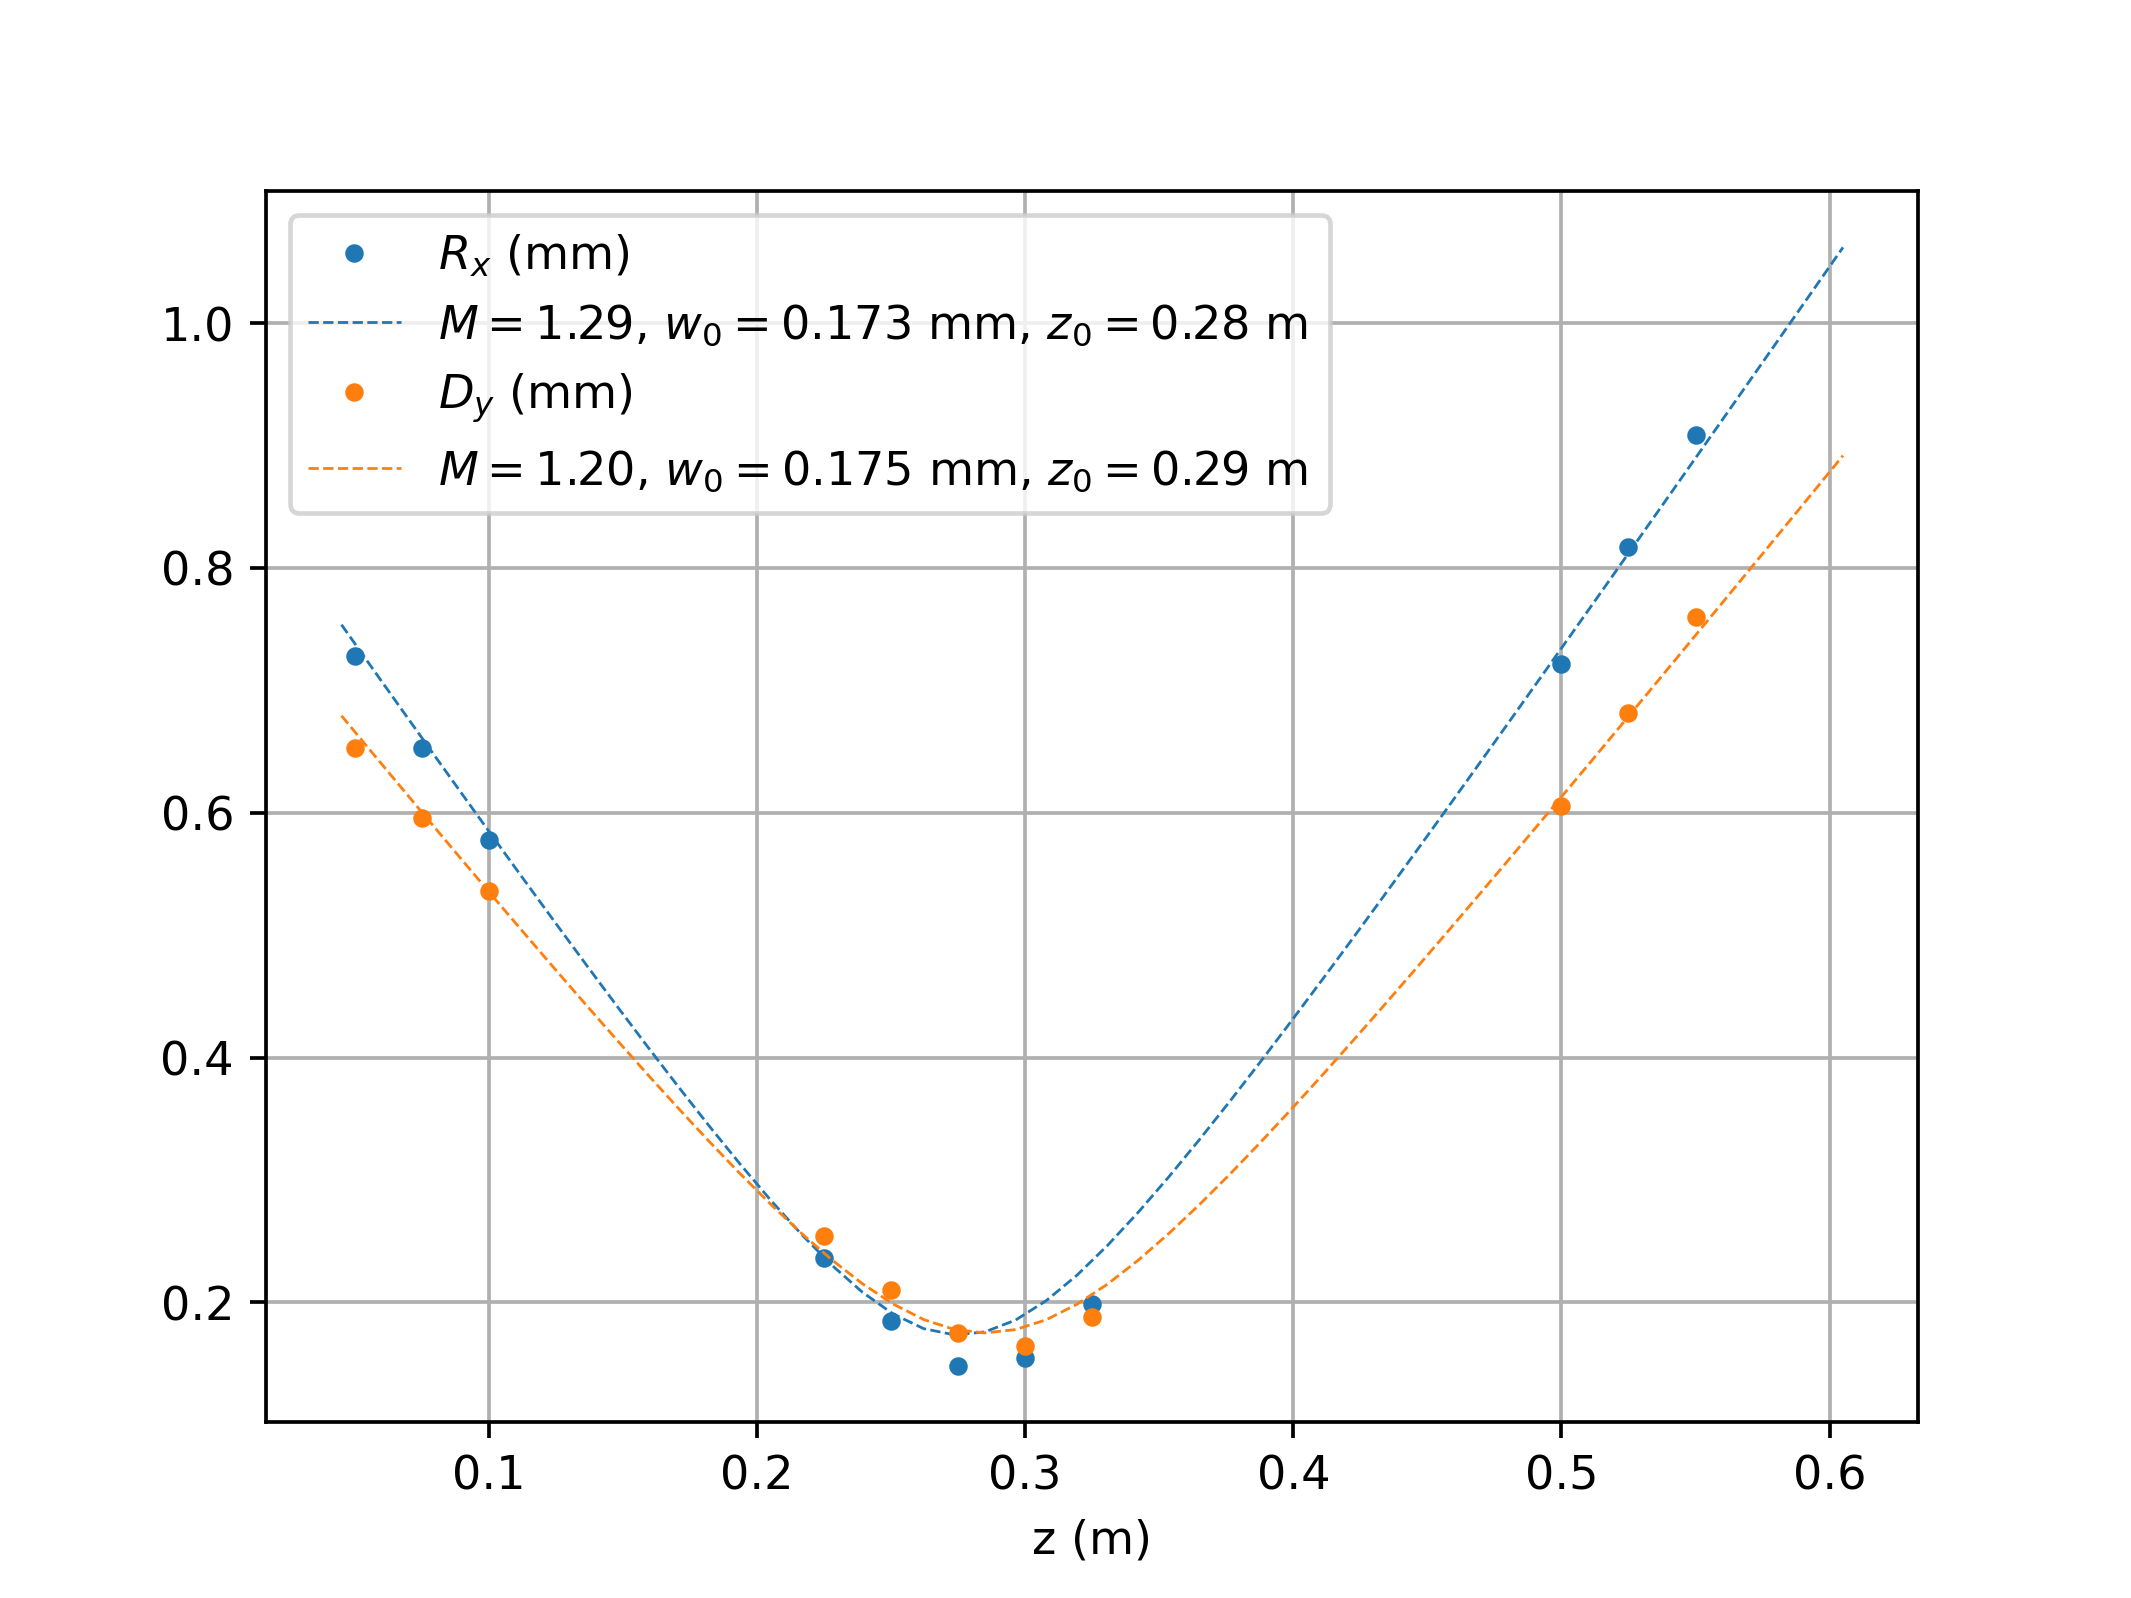
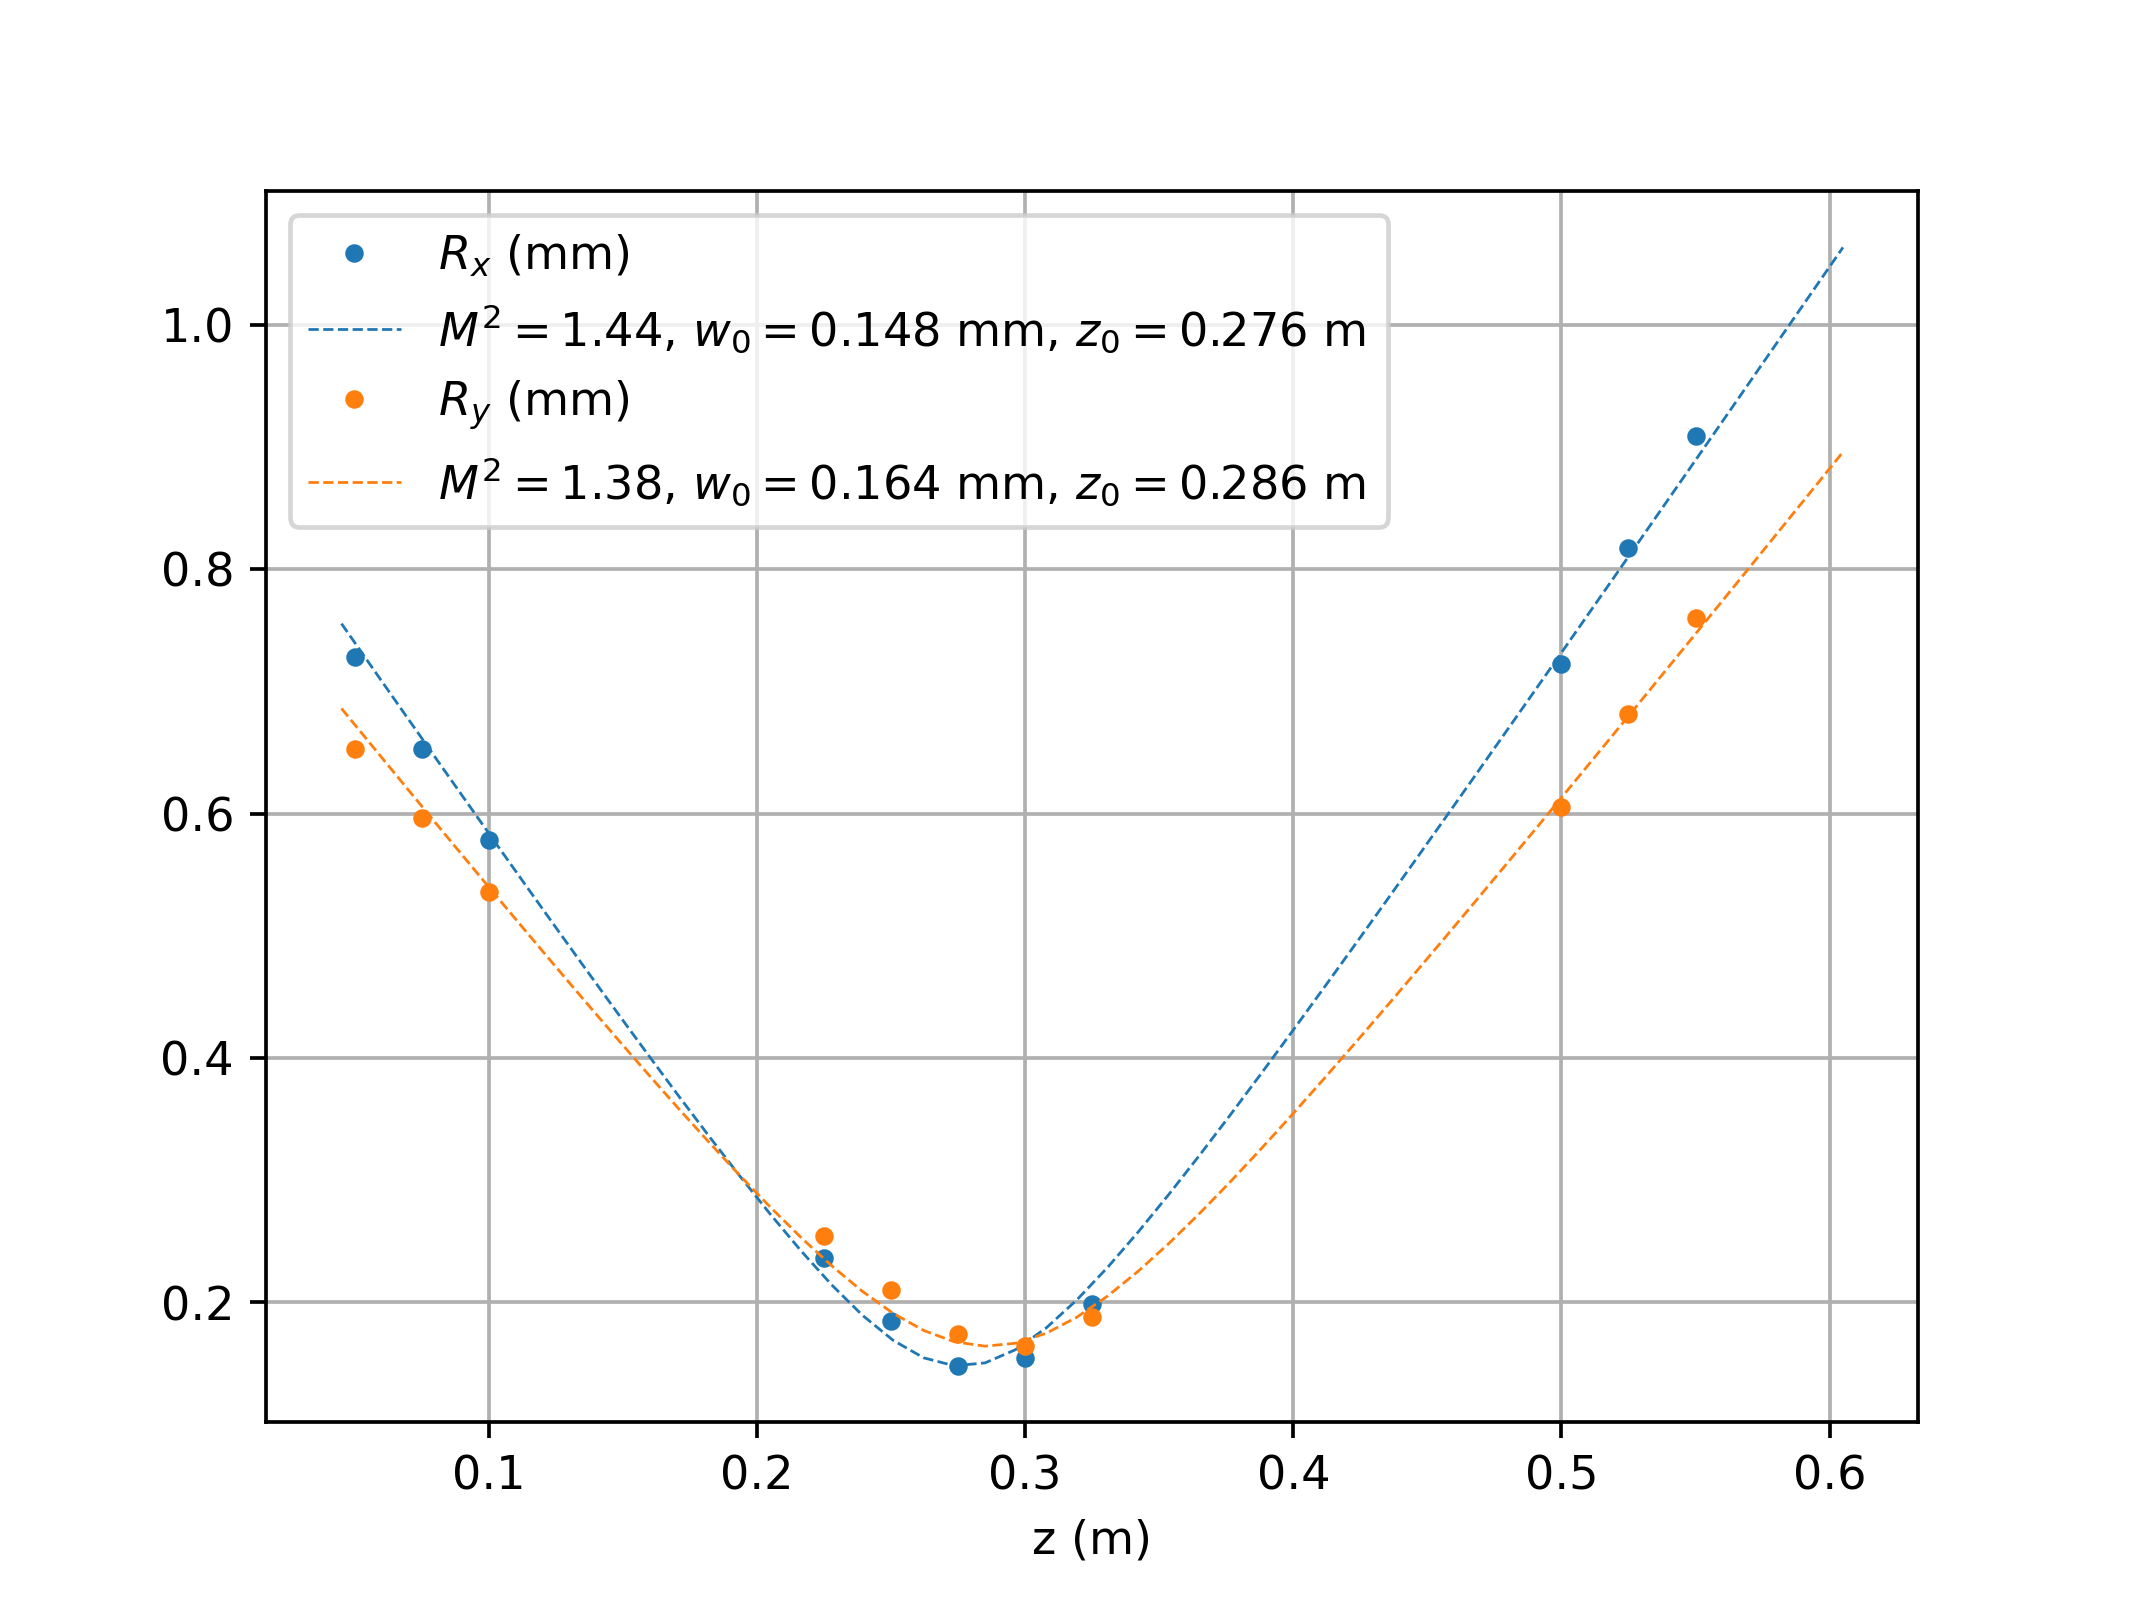
fit bounds improvement

diff --git a/fund_of_photonics_I/1_2_excercise.py b/fund_of_photonics_I/1_2_excercise.py
@@ -33,8 +33,8 @@ def w(z, M2, w0, z0):
 
 # %% 
 
-paramsx = curve_fit(w, z, Rx, bounds=([0, 0, 0], [10, 400e-6, 1]))[0]
-paramsy = curve_fit(w, z, Ry, bounds=([0, 0, 0], [10, 400e-6, 1]))[0]
+paramsx = curve_fit(w, z, Rx, bounds=([1, 100e-6, 0.2], [2, 200e-6, 0.4]))[0]
+paramsy = curve_fit(w, z, Ry, bounds=([1, 100e-6, 0.2], [2, 200e-6, 0.4]))[0]
 
 
 # %% plot data
@@ -43,10 +43,10 @@ zplot = np.linspace(z.min()*0.9, z.max()*1.1)
 plt.figure(dpi=333)
 plt.plot(z, 1e3*Rx, '.', label='$R_x$ (mm)')
 plt.plot(zplot, 1e3*w(zplot, paramsx[0], paramsx[1], paramsx[2]), '--', color='tab:blue',
-         label='$M= {:.2f}$, $w_0 = {:.3}$ mm, $z_0 = {:.2f}$ m '.format(np.sqrt(paramsx[0]), 1e3*paramsx[1], paramsx[2]), linewidth=0.6)
-plt.plot(z, 1e3*Ry, '.', label='$D_y$ (mm)')
+         label='$M^2= {:.2f}$, $w_0 = {:.3}$ mm, $z_0 = {:.3f}$ m '.format(paramsx[0], 1e3*paramsx[1], paramsx[2]), linewidth=0.6)
+plt.plot(z, 1e3*Ry, '.', label='$R_y$ (mm)')
 plt.plot(zplot, 1e3*w(zplot, paramsy[0], paramsy[1], paramsy[2]), '--', color='tab:orange',
-         label='$M= {:.2f}$, $w_0 = {:.3}$ mm, $z_0 = {:.2f}$ m '.format(np.sqrt(paramsy[0]), 1e3*paramsy[1], paramsy[2]), linewidth=0.6)
+         label='$M^2= {:.2f}$, $w_0 = {:.3}$ mm, $z_0 = {:.3f}$ m '.format((paramsy[0]), 1e3*paramsy[1], paramsy[2]), linewidth=0.6)
 plt.legend()
 plt.grid()
 plt.xlabel('z (m)')
